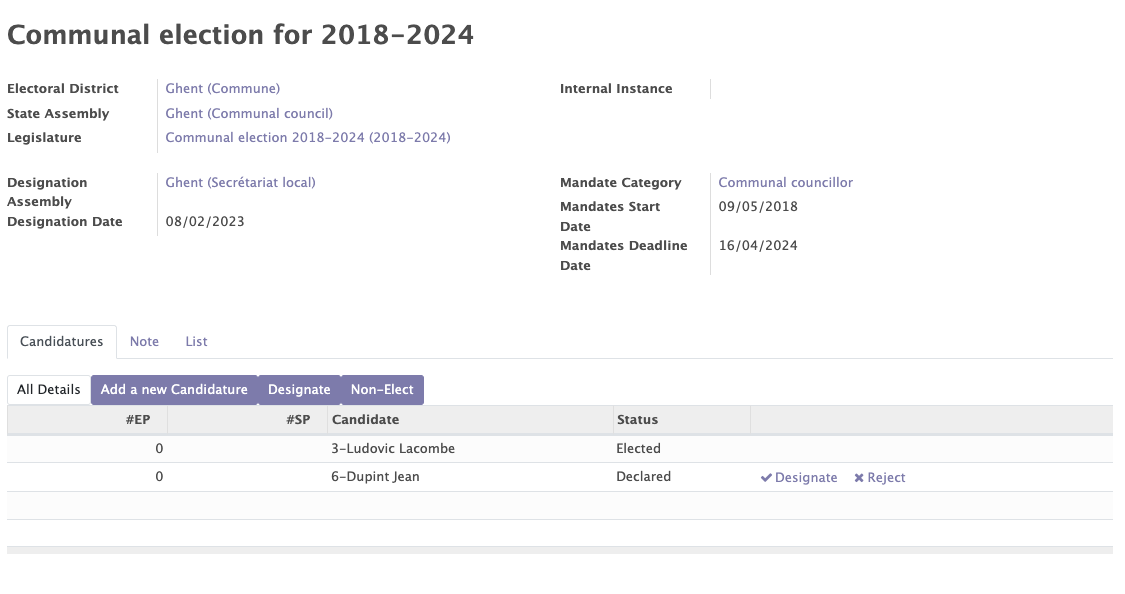
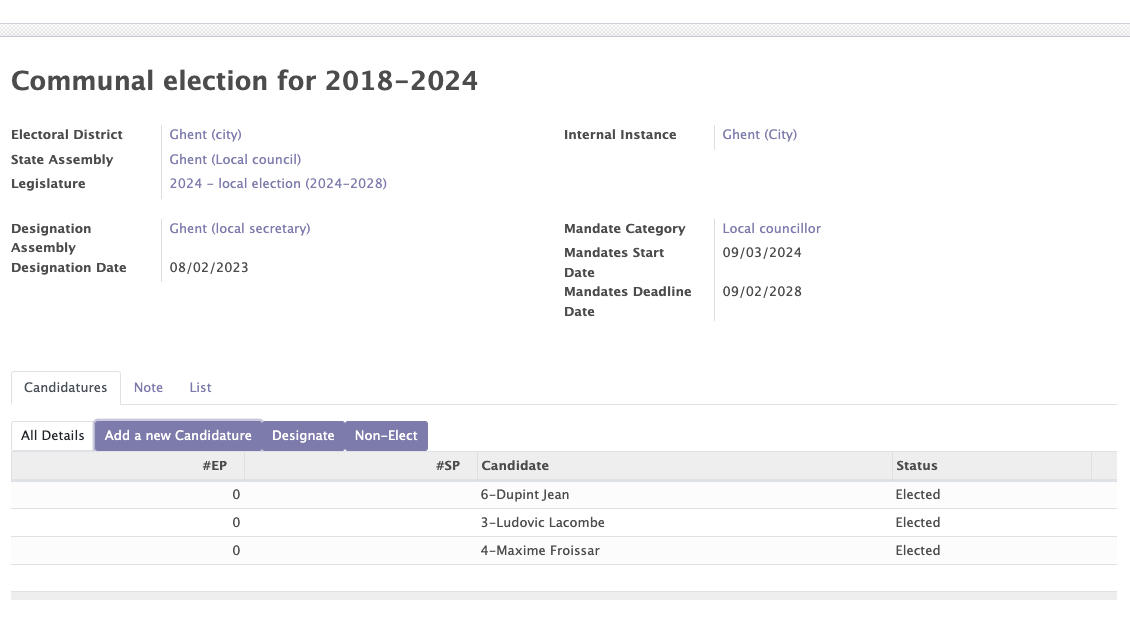
MAJ textes et screens page mandats

diff --git a/docs/3Mandates-module.md b/docs/3Mandates-module.md
@@ -13,10 +13,6 @@ Several functionalities are available in the mandates module:
 - The invalidation of mandates
 - The renewal of mandates
 
-
-
-PARLER QUELQUE PART DES CHAMPS A REMPLIR SUR UN MANDAT / FAIRE UN LIEN AVEC LA STRUCTURE
-
 ## Selection committees
 
 Selection committees can be created in Mozaïk in order to manage the results of elections (political elections, internal elections):
@@ -28,16 +24,17 @@ Selection committees can be created in Mozaïk in order to manage the results of
     - Non-elected candidates
 - Automatic creation of mandates
 
+When creating a selection committee, you must select the legislature and the designation assembly that you have previously created in the structure module.
+
 Mozaïk doesn't have a function yet to organise elections / votes. Only the follow-up of candidates and the result of the votes can be handled in Mozaïk. 
 
 Once a candidate is elected/selected, a (political/internal) mandate will automatically be created for this candidate. Selection committees are not mandatary, as mandates can directly be created in Mozaïk (without working with candidates and elections).
-
 
 !!!info
 
      Once a selection committee is created, you can easily add candidates to this committee by clicking on the "add a new candidature" button.
 
-METTRE LES CHAMPS EN ANGLAIS SUR LES SCREENSHOTS ( COMMUNE, COMMUNAL COUNCIL, LEGISLATURE, DESIGNATION COUNCIL, MANDATE CATEGORY)
+
 
 <figure markdown>
 ![screenshot 15](img/screen15.png)

diff --git a/docs/2Structure_module.md b/docs/2Structure_module.md
@@ -20,7 +20,14 @@ In the structure module, you will encounter the following terms:
 
 A level of power refers to the different decision-making and governance bodies within the organisation. Each level of authority is responsible for managing specific functions or activities.
 
-In Belgium, the level of power is represented by the distribution of competences between the federated entities: the Regions, the Communities and the Federal State
+!!! example "Examples"
+
+    In Belgium, the level of power is represented by the distribution of competences between the federated entities:
+
+    - The Regions
+    - The Communities
+    - The provinces
+    - The Federal State
 
 ## Instances
 
@@ -50,7 +57,7 @@ Each instance can be associated to an assembly category of the same power level.
     In the political structure of Belgium, the city of Ghent (power level = city) could be associated with the following categories of assemblies:
 
     - The college of mayors and aldermen 
-    - The communal council
+    - The local council
     - The police council
     - The social action council
 

diff --git a/docs/5Marketing-emails.md b/docs/5Marketing-emails.md
@@ -1,4 +1,4 @@
-# Marketing emails
+# Emails marketing
 The emails marketing module offers additional functionalities to complement the Odoo standard. The module provides you to manage the marketing emails of your organisation.
 
 It will provide access to:

diff --git a/docs/index.md b/docs/index.md
@@ -1,4 +1,4 @@
-# Welcome to the Mozaik documentation
+# Introduction
 
 The Mozaik documentation is a tool to understand and learn the functionalities of Mozaik, a tool to manage political parties and large organisations. 
 
